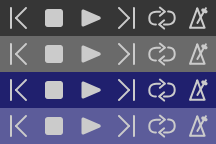
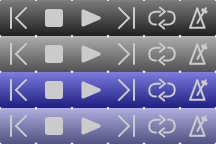
[gui] refine transport buttons

diff --git a/Vst3HostDemo/gui/GUI.cpp b/Vst3HostDemo/gui/GUI.cpp
@@ -154,10 +154,7 @@ public:
         auto const w = image_.GetWidth() / num_cols_;
         auto const h = image_.GetHeight() / num_rows_;
         
-        wxRect r(wxPoint(w * col, h * row),
-                 wxSize(w, h)
-                 );
-        
+        wxRect r(wxPoint(w * col, h * row), wxSize(w, h));
         return image_.GetSubImage(r);
     }
     
@@ -193,15 +190,17 @@ public:
         
         auto hbox = new wxBoxSizer(wxHORIZONTAL);
         
-        hbox->Add(btn_rewind_,      wxSizerFlags(0));
-        hbox->Add(btn_stop_,        wxSizerFlags(0));
-        hbox->Add(btn_play_,        wxSizerFlags(0));
-        hbox->Add(btn_forward_,     wxSizerFlags(0));
-        hbox->Add(btn_loop_,        wxSizerFlags(0));
+        hbox->Add(btn_rewind_,      wxSizerFlags(0).Border(wxTOP|wxBOTTOM|wxRIGHT, 1));
+        hbox->Add(btn_stop_,        wxSizerFlags(0).Border(wxTOP|wxBOTTOM|wxRIGHT, 1));
+        hbox->Add(btn_play_,        wxSizerFlags(0).Border(wxTOP|wxBOTTOM|wxRIGHT, 1));
+        hbox->Add(btn_forward_,     wxSizerFlags(0).Border(wxTOP|wxBOTTOM|wxRIGHT, 1));
+        hbox->Add(btn_loop_,        wxSizerFlags(0).Border(wxTOP|wxBOTTOM|wxRIGHT, 1));
         //hbox->Add(btn_metronome_,   wxSizerFlags(0));
         hbox->AddStretchSpacer(1);
         
         SetSizer(hbox);
+        
+        SetBackgroundColour(wxColour(0x1B, 0x1B, 0x1B));
         
         btn_rewind_->Bind(wxEVT_BUTTON, [this](auto &ev) { OnRewind(); });
         btn_stop_->Bind(wxEVT_BUTTON, [this](auto &ev) { OnStop(); });
@@ -403,7 +402,7 @@ public:
     ,   col_bg_(10, 10, 10)
     {
         transport_buttons_ = new TransportPanel(this);
-        time_indicator_ = new TimeIndicator(this, wxDefaultPosition, wxSize(220, 36));
+        time_indicator_ = new TimeIndicator(this, wxDefaultPosition, wxSize(220, 38));
         
         auto hbox = new wxBoxSizer(wxHORIZONTAL);
         hbox->Add(transport_buttons_, wxSizerFlags(0).Expand());
